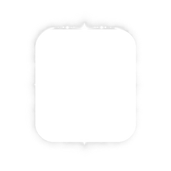
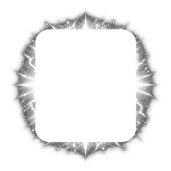
스킬 빛줄기 · 두꺼운 준비 빛 · 챕터별 금 간 상자 적용
- fx_castlines 3장: 누르는 순간 몸 둘레 가는 빛줄기 (폭발 그림 대신)
- 스킬 준비 빛을 두꺼운 버전으로 교체, 겹쳐 깔던 바깥 한 겹은 끔
- obj_{무대}_crate_2 7장: 체력 절반 아래 상자. 납품본이 가로로 눌려 와 원본 상자 칸에 맞춰 넣었다
- 스킬 연출 그림 압축 끔 (아틀라스 경고)

Changed region(s): [[0.0585, 0.0585, 0.9357, 0.9357]]

diff --git a/Assets/Scripts/Module/InGame/InGameMainUI.SkillCast.cs b/Assets/Scripts/Module/InGame/InGameMainUI.SkillCast.cs
@@ -34,6 +34,7 @@ namespace Game.Module.InGame
         private const float CutInY = 170f;                 // 화면 가운데에서 위로
         private const float ReadyFrameSeconds = 0.12f;
         private const bool CastEdgeEnabled = false;
+        private static readonly bool ReadyGlowOuterEnabled = false;
         private const float CastEdgeOverscanX = 70f;   // 화면 밖으로 내보내는 폭(캔버스 px)
         private const float CastEdgeOverscanY = 110f;
         private const float CastEdgeAlpha = 0.5f;      // 가장 밝을 때도 반만
@@ -74,9 +75,13 @@ namespace Game.Module.InGame
                                        _uiAtlas.GetSprite("skillcastready_3") ?? f1 };
                 // 바깥 겹 — 같은 그림을 크게 한 장 더 깔아 빛이 멀리 번지게 한다.
                 // ⚠ 한 겹이면 밝은 바닥(CH5 민트)에서 빛이 바닥에 묻혔다(기획 2026-09-17).
-                _readyGlowOuter = MakeImage("SkillReadyGlowOuter", button, f1, new Vector2(171f, 171f) * 1.18f,
-                                            Vector2.zero);
-                _readyGlowOuter.transform.SetAsLastSibling();
+                // ⚠ 두꺼운 준비 빛(바깥 그림자 포함)을 받은 뒤로는 한 겹이면 된다 — 두 겹이면 과하다.
+                if (ReadyGlowOuterEnabled)
+                {
+                    _readyGlowOuter = MakeImage("SkillReadyGlowOuter", button, f1, new Vector2(171f, 171f) * 1.18f,
+                                                Vector2.zero);
+                    _readyGlowOuter.transform.SetAsLastSibling();
+                }
                 // 그림 가운데 구멍(100×112)이 버튼 크기와 같게 잘라 두었다 — 원본 크기 그대로 쓴다
                 _readyGlow = MakeImage("SkillReadyGlow", button, f1, new Vector2(171f, 171f), Vector2.zero);
                 _readyGlow.transform.SetAsLastSibling();

diff --git a/Assets/Scripts/Module/InGame/BattleDirector.SkillCast.cs b/Assets/Scripts/Module/InGame/BattleDirector.SkillCast.cs
@@ -34,7 +34,7 @@ namespace Game.Module.InGame
         /// </summary>
         private const float CastFreezeSeconds = 0.63f;
 
-        private const float CastLinesSize = 170f;
+        private const float CastLinesSize = 220f;   // 그림 가운데 지름 200/512 가 비어 있다 — 몸(약 90×130)이 들어가는 크기
         private const float CastRingInner = 150f;
         private const float CastRingOuter = 240f;
         private const float CastReleaseRingSize = 230f;
@@ -75,8 +75,10 @@ namespace Game.Module.InGame
             me.BeginCastWhite();   // 몸 모양 그대로 하얗게 — 시안 「몸이 하얗게 번쩍」
 
             // 몸 둘레로 뻗는 흰 빛줄기 — 시안 1컷
-            var lines = PlayFx("castburst", body, CastLinesSize, loop: false);
-            if (lines != null) lines.SetFrameSeconds(0.06f);
+            // 전용 가는 빛줄기(`fx_castlines`)가 먼저, 없으면 폭발 그림으로 버틴다
+            var lines = PlayFx("castlines", body, CastLinesSize, loop: false)
+                        ?? PlayFx("castburst", body, CastLinesSize, loop: false);
+            if (lines != null) lines.SetFrameSeconds(0.07f);
 
             // 발밑에서 퍼지는 흰 타원
             var pop = PlayFloorFx("castring", feet, CastReleaseRingSize, loop: false);
